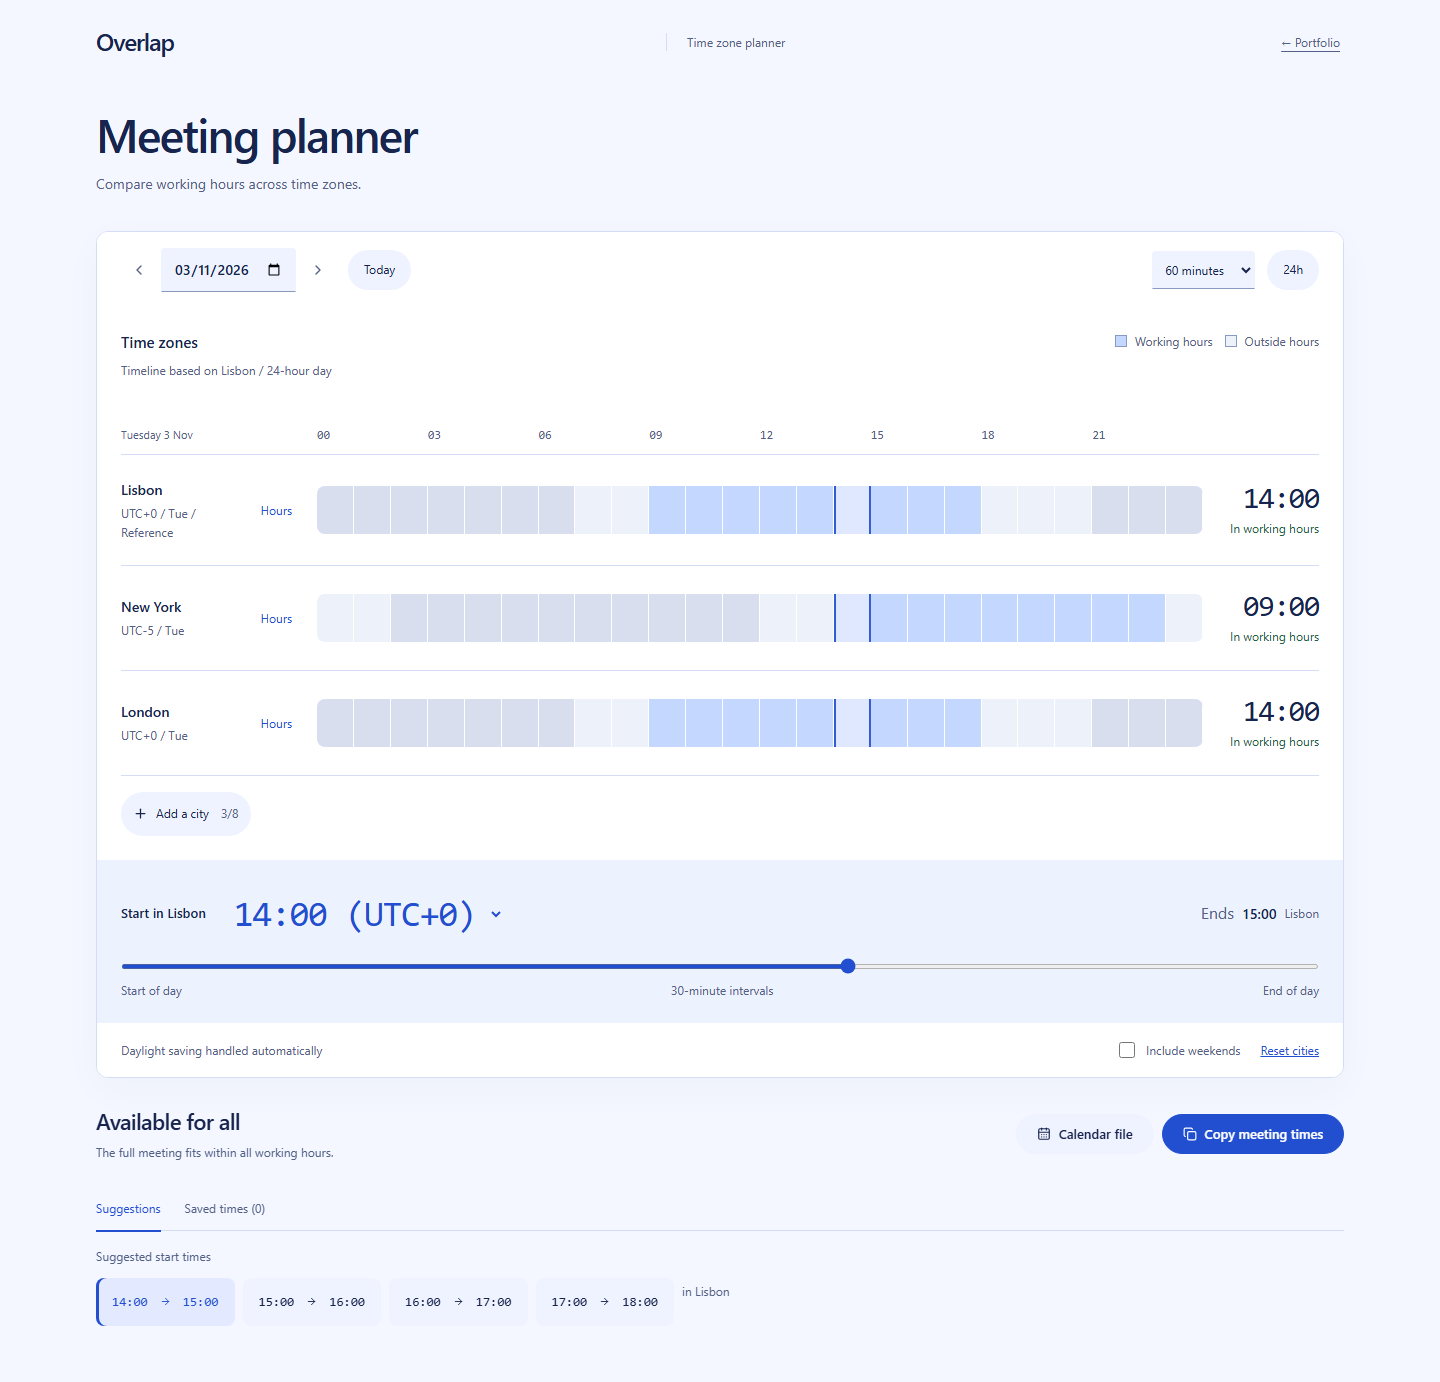
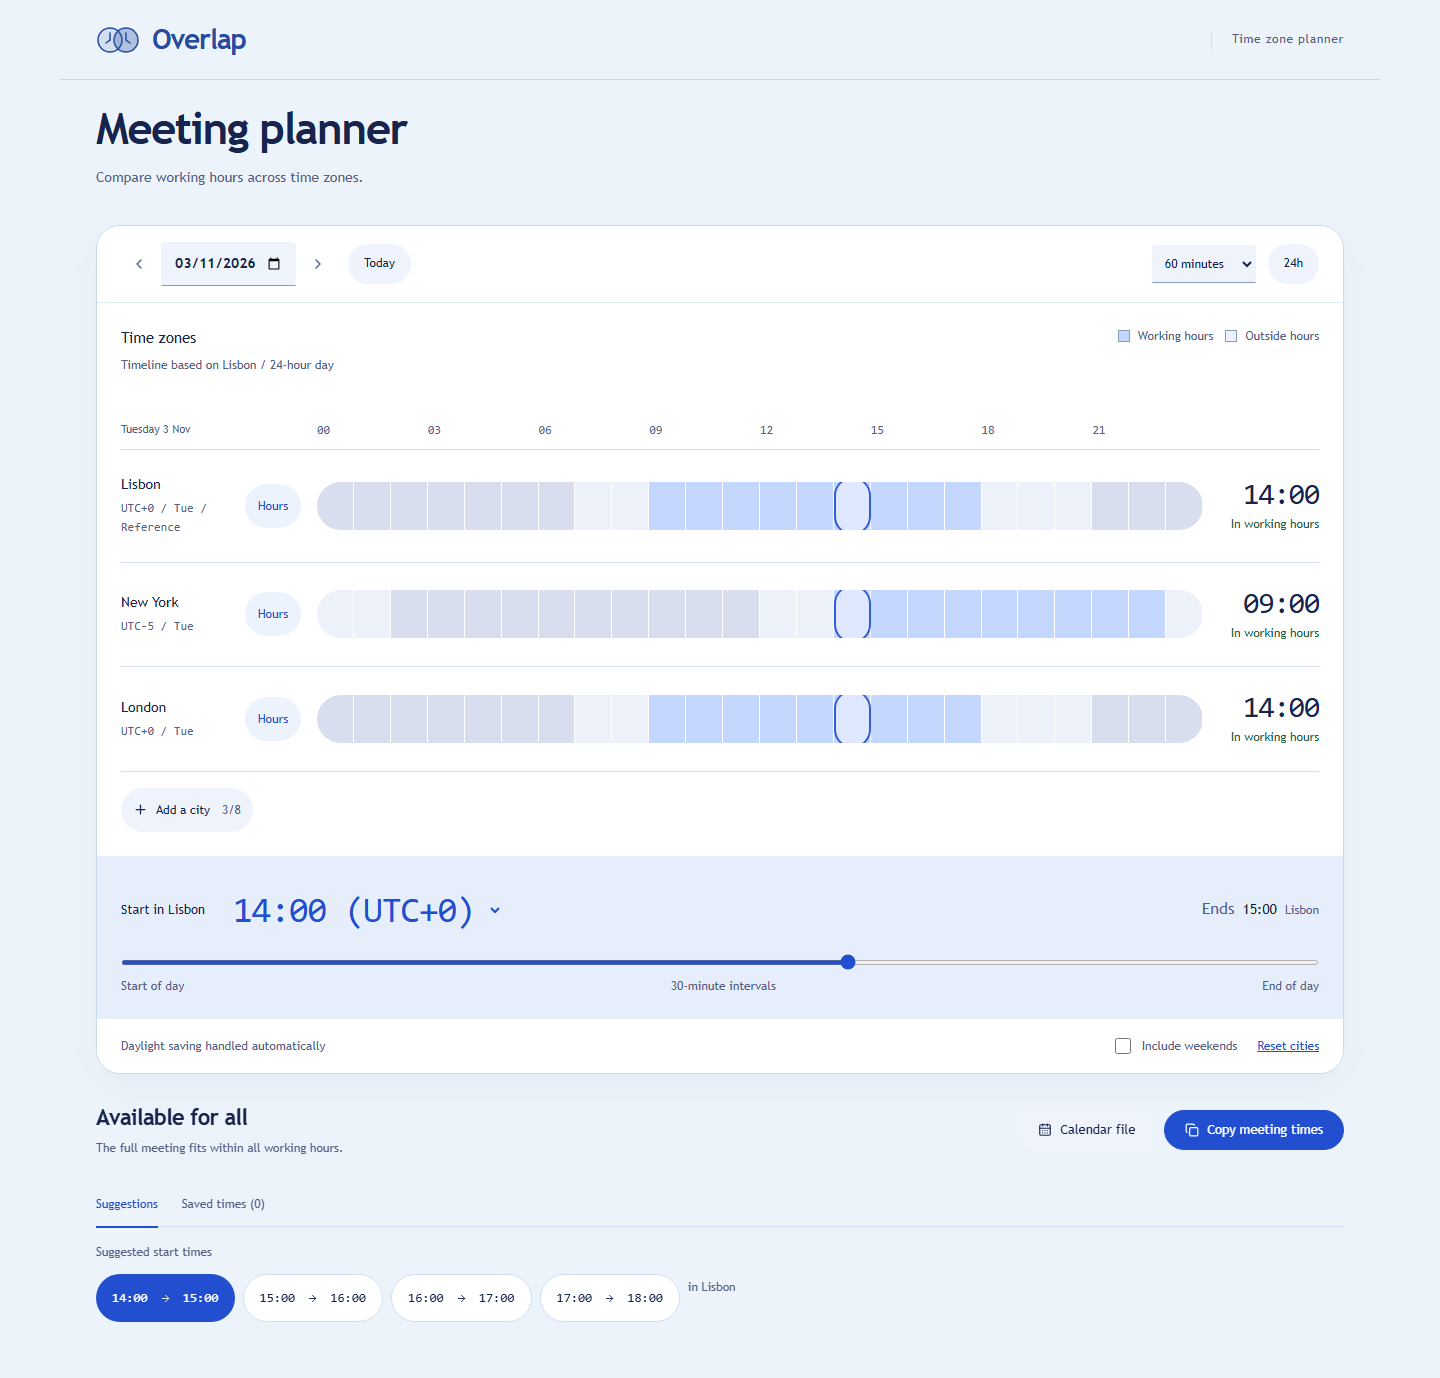
Add clock identity and distinguish planner controls

diff --git a/src/design.css b/src/design.css
@@ -384,20 +384,95 @@ main {
   font-size: 12px;
 }
 
-.portfolio-link {
-  display: inline-flex;
-  align-items: center;
-  min-height: 44px;
-  padding: 8px 4px;
-  margin-left: auto;
-  color: var(--color-ink-2);
-  font-size: 12px;
-  white-space: nowrap;
-  text-decoration: underline;
-  text-underline-offset: 4px;
-}
 @media (max-width: 480px) {
   .header-purpose {
     display: none;
+  }
+}
+
+/* Clock atlas: paired clock mark, round daylight tracks and soft blue surfaces. */
+:root {
+  --font-body: 'Trebuchet MS', 'Segoe UI', sans-serif;
+  --color-paper: #edf3fa;
+  --color-paper-3: #eff4fc;
+}
+.topbar {
+  border-bottom: 1px solid #cbd8eb;
+  padding-block: 18px;
+}
+.brand {
+  gap: 12px;
+  font-size: 28px;
+  font-weight: 700;
+  letter-spacing: -1.2px;
+  color: #254ca1;
+}
+.brand-symbol {
+  width: 44px;
+  height: 32px;
+  flex-shrink: 0;
+}
+.header-purpose {
+  font-size: 12px;
+  letter-spacing: 0.06em;
+}
+.intro h1 {
+  font-size: clamp(32px, 4vw, 44px);
+  font-weight: 700;
+  letter-spacing: -1.5px;
+}
+.planner {
+  border: 1px solid #ccd9eb;
+  border-radius: 24px;
+  box-shadow: 0 12px 36px #244a7f0a;
+}
+.planner-controls {
+  border-bottom: 1px solid #e3ebf7;
+}
+.timeline-track {
+  border-radius: 100px;
+}
+.city-name p {
+  font:
+    12px/1.6 Consolas,
+    monospace;
+}
+.city-settings {
+  background: #edf3fc;
+  border-radius: 100px;
+  min-height: 44px;
+  padding-inline: 12px;
+}
+.slider-area {
+  background: #e6eefb;
+}
+.selection {
+  border-radius: 100px;
+}
+.suggestion-times button {
+  border: 1px solid #d2dff1;
+  border-radius: 100px;
+  background: #fff;
+}
+.suggestion-times button.active {
+  background: #224fd0;
+  color: #fff;
+  box-shadow: none;
+}
+.suggestion-label h2 {
+  font-weight: 700;
+}
+@media (max-width: 760px) {
+  .topbar {
+    padding-inline: 20px;
+  }
+  .brand {
+    font-size: 25px;
+  }
+  .brand-symbol {
+    width: 38px;
+  }
+  .planner {
+    border-radius: 20px;
   }
 }

diff --git a/src/App.tsx b/src/App.tsx
@@ -173,17 +173,36 @@ export default function App() {
       </a>
       <header className="topbar">
         <a className="brand" href="./">
+          <svg className="brand-symbol" viewBox="0 0 44 32" aria-hidden="true">
+            <circle
+              cx="14"
+              cy="16"
+              r="12"
+              fill="currentColor"
+              fillOpacity=".12"
+              stroke="currentColor"
+              strokeWidth="1.5"
+            />
+            <circle
+              cx="30"
+              cy="16"
+              r="12"
+              fill="currentColor"
+              fillOpacity=".3"
+              stroke="currentColor"
+              strokeWidth="1.5"
+            />
+            <path
+              d="M14 9v7l-4 3m20-10v7l4 3"
+              fill="none"
+              stroke="currentColor"
+              strokeWidth="1.5"
+              strokeLinecap="round"
+            />
+          </svg>
           Overlap
         </a>
         <span className="header-purpose">Time zone planner</span>
-        <a
-          className="portfolio-link"
-          href={
-            import.meta.env.VITE_PORTFOLIO_URL || 'https://jpndmatos.github.io/Portfolio/#projects'
-          }
-        >
-          ← Portfolio
-        </a>
       </header>
       <main>
         <div className="intro">
@@ -645,6 +664,7 @@ export default function App() {
                 <button
                   key={t}
                   className={t === selected ? 'active' : ''}
+                  aria-pressed={t === selected}
                   onClick={() => setIndex(slots.indexOf(t))}
                 >
                   {timeLabel(t, cities[0].zone, hour12)}

diff --git a/index.html b/index.html
@@ -4,8 +4,8 @@
     <meta charset="UTF-8" />
     <meta name="viewport" content="width=device-width, initial-scale=1" />
     <meta name="description" content="Timezone meeting planner" />
-    <meta name="theme-color" content="#f4f7ff" />
-    <link rel="icon" type="image/svg+xml" href="/favicon.svg?v=3" />
+    <meta name="theme-color" content="#edf3fa" />
+    <link rel="icon" type="image/svg+xml" href="/favicon.svg?v=4" />
     <title>Overlap | Timezone meeting planner</title>
   </head>
   <body>
